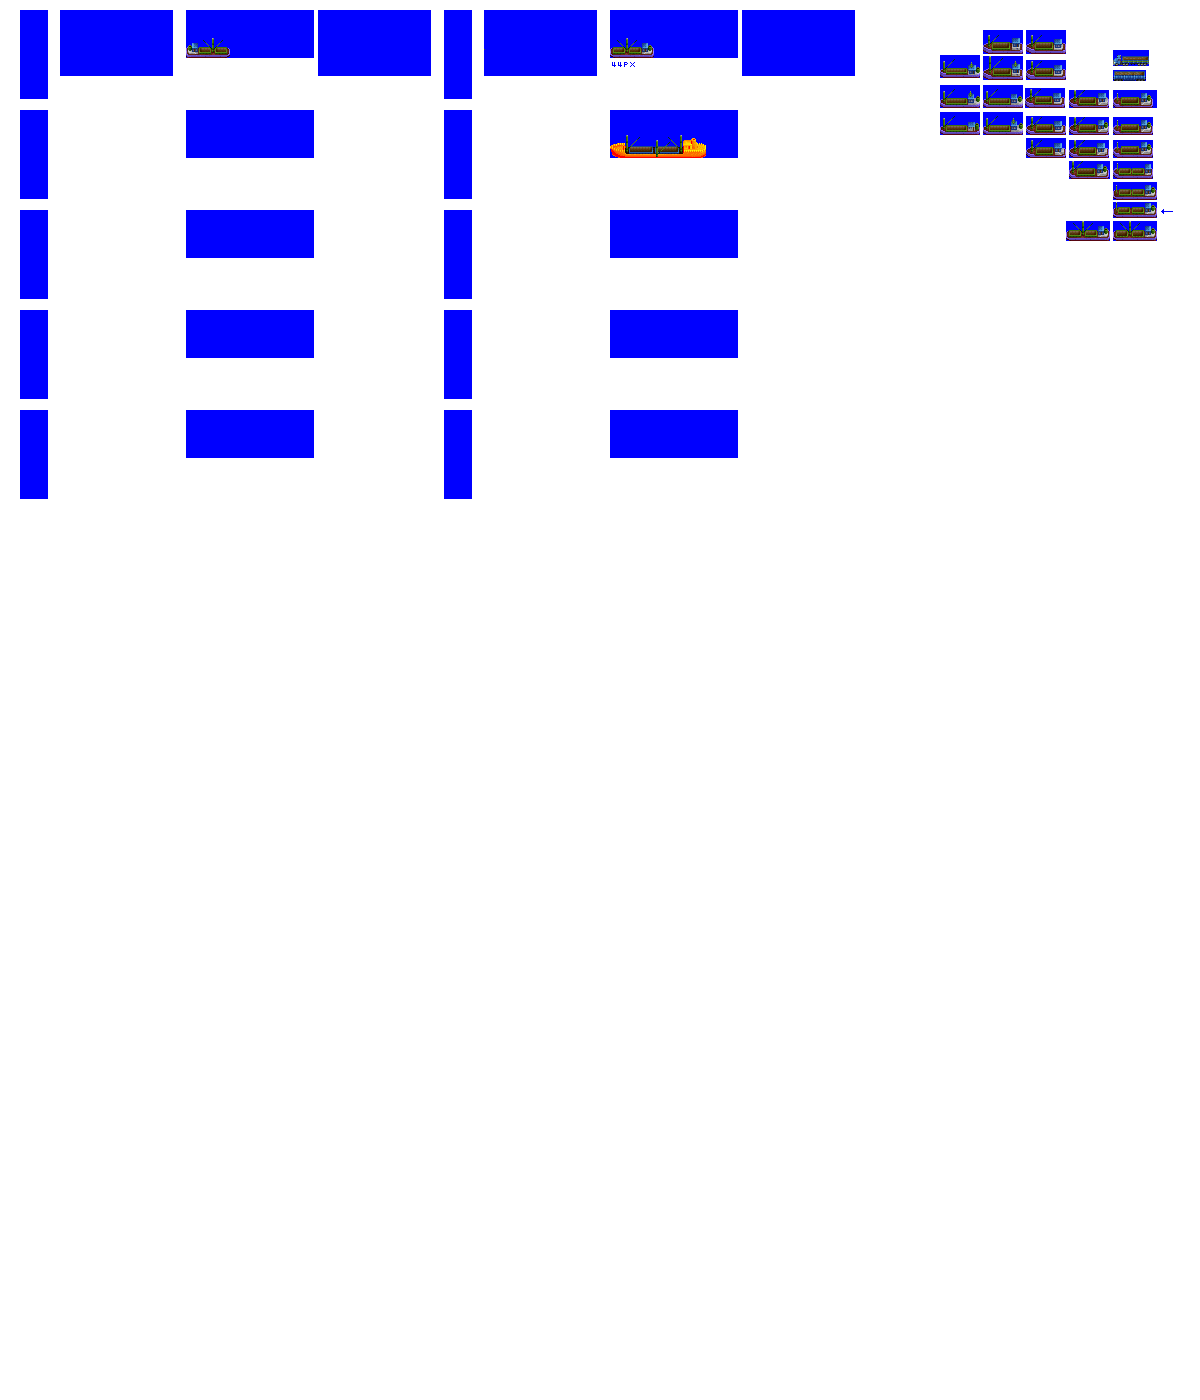
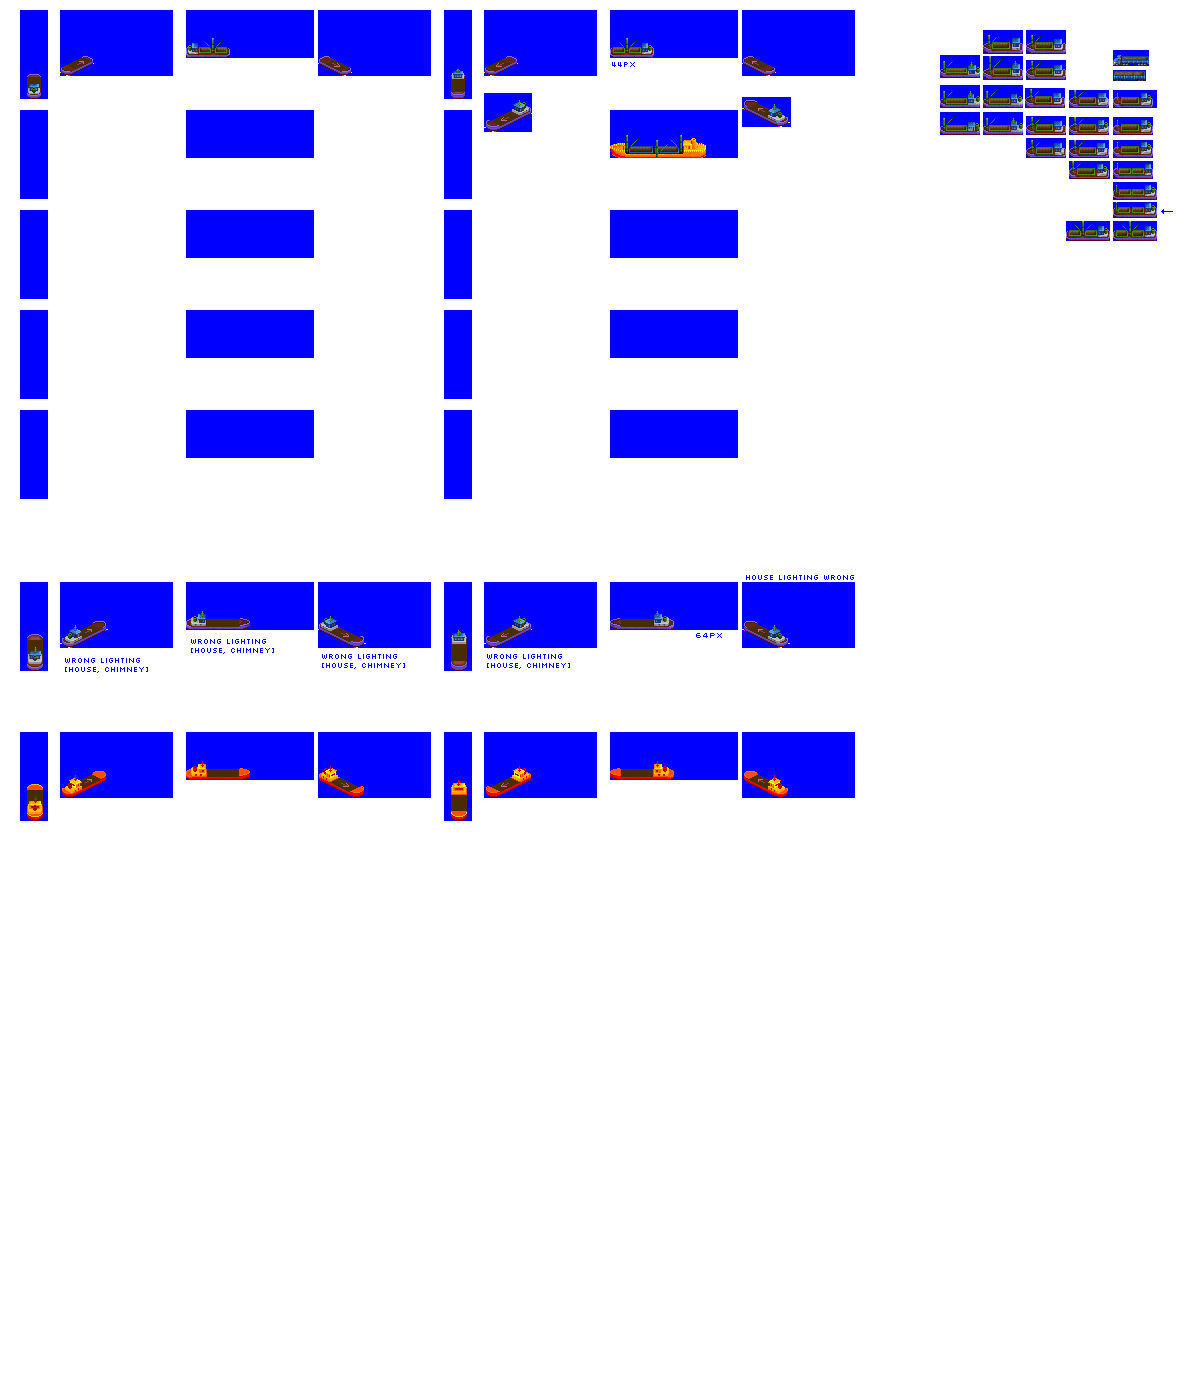
Change: WIP on micro barge hull

diff --git a/src/global_constants.py b/src/global_constants.py
@@ -15,7 +15,7 @@ spritesheet_bounding_boxes = ((20, 28, 89), (60, 113, 66), (186, 128, 48), (318,
                               (444, 28, 89), (484, 113, 66), (610, 128, 48), (742, 113, 66))
 
 # standard vehicle offsets; custom can be supported if needed by extending ship.offsets
-vehicle_offsets = {'micro': [[-15, -38], [-64, -32], [-22, -36], [-64, -22], [-15, -38], [-64, -22], [-22, -36], [-38, -20]],
+vehicle_offsets = {'micro': [[-14, -73], [-44, -38], [-22, -36], [8, -38], [-14, -73], [-42, -38], [-22, -36], [8, -38]],
                    'mini':  [[-14, -68], [-50, -35], [-32, -34], [3, -34], [-14, -68], [-50, -35], [-32, -34], [3, -34]],
                    'small': [[-14, -58], [-59, -29], [-48, -36], [-8, -29], [-14, -58], [-61, -29], [-48, -36], [-9, -29]],
                    'large': [[-14, -46], [-70, -23], [-64, -34], [-18, -23], [-14, -46], [-72, -23], [-64, -34], [-18, -23]]}
